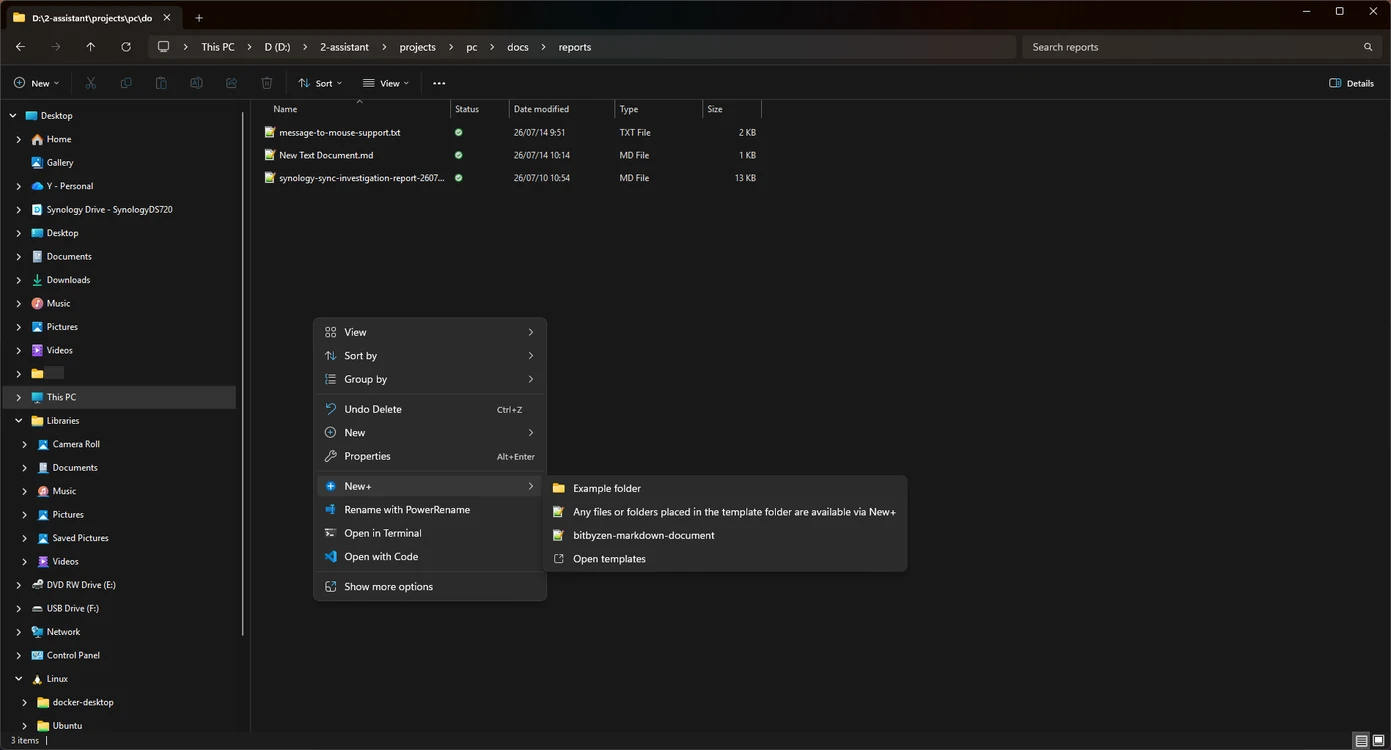
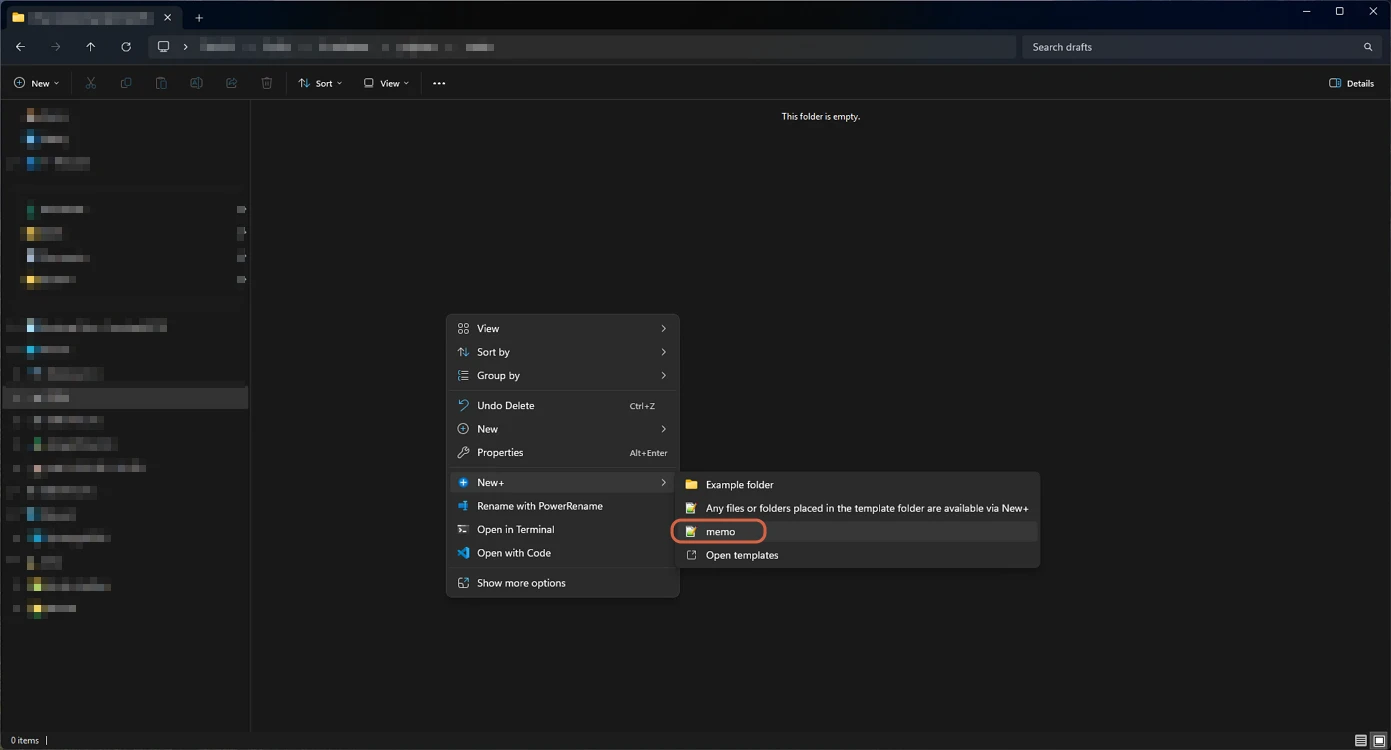
Merge New+ boilerplate removal into the New menu setup guide
The standalone PowerToys page duplicated part of the same New+ setup flow, and the boilerplate issue turned out to affect this page's own example template (confirmed by the 74-byte file size in its own screenshot), so it belongs as a continuation of these same steps rather than a separate page.

Also redacted a Windows username and a real folder path/NAS name that were exposed unblurred in two of this page's existing screenshots.

diff --git a/src/docs/en/desktop/index.md b/src/docs/en/desktop/index.md
@@ -79,7 +79,6 @@ Notes on desktop applications, development tools, and workflows.
 - [Perplexity](perprexity/create-perplexity-account.md)
 - [PicPick](picpick/migrate-picpick-portable-settings.md)
 - [Pinterest](pinterest/install-pinterest.md)
-- [PowerToys](powertoys/remove-new-plus-boilerplate-text.md)
 - [Python](python/create-executable-from-python-script.md)
 
 ## S
